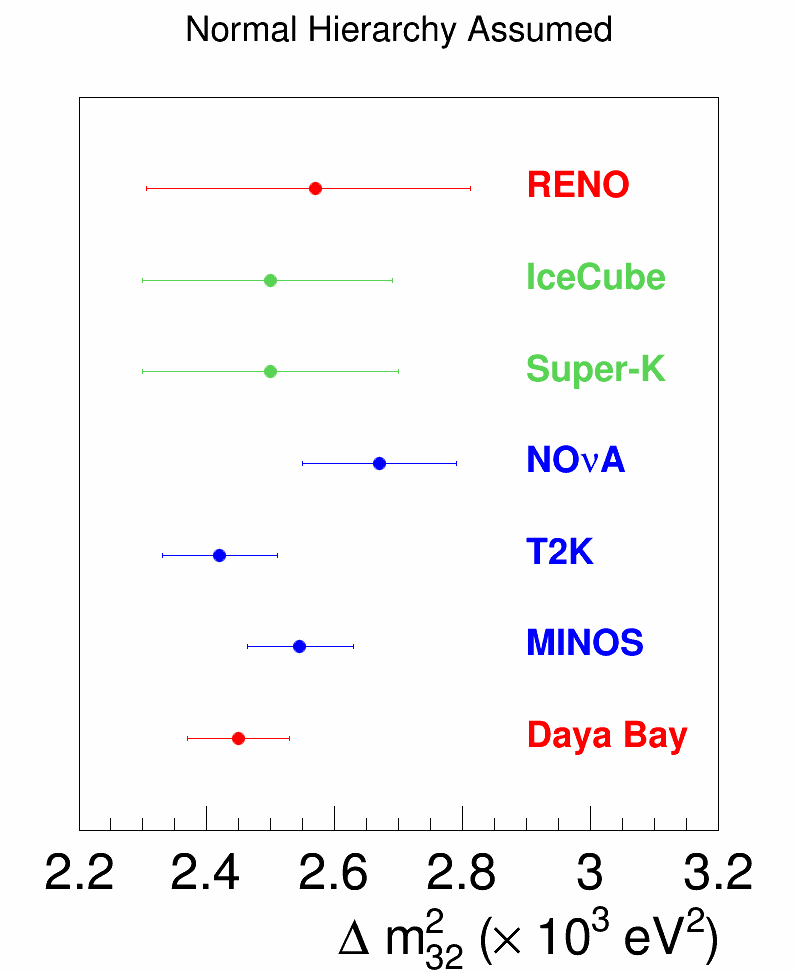
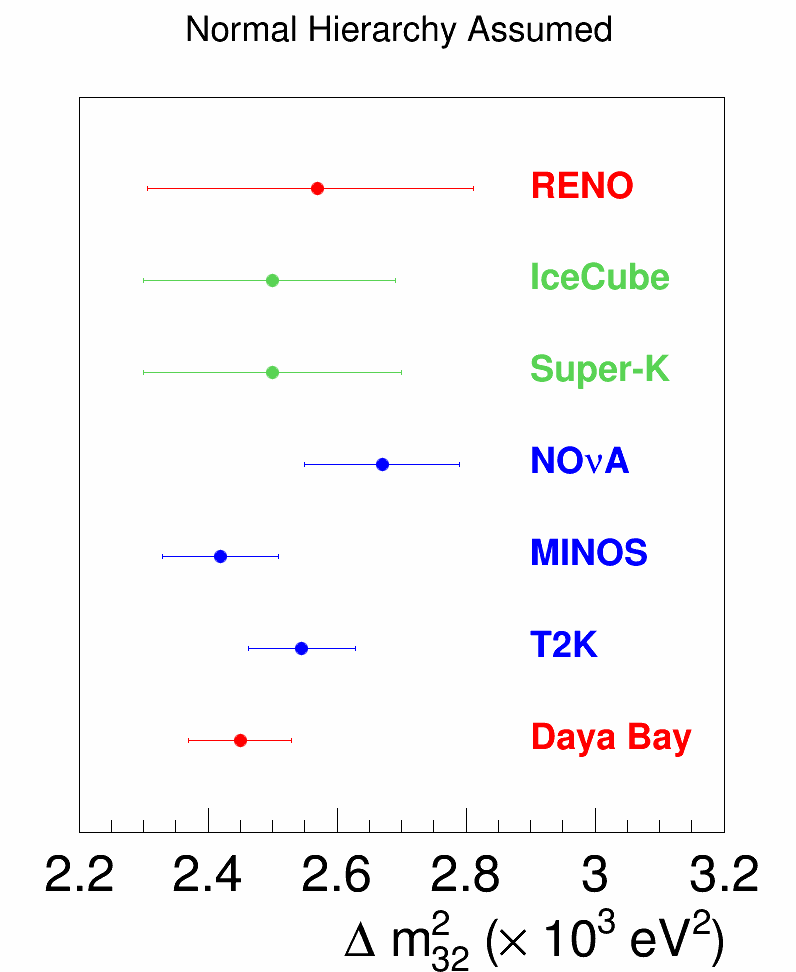
fix a typo

diff --git a/plot_dm2.C b/plot_dm2.C
@@ -43,9 +43,9 @@ void plot_dm2(){
   oscGraph1->Draw("Psame");
 
   latex.SetTextColor(4);
-  latex.DrawLatex(2.9,idx[2]-0.1,"T2K");
+  latex.DrawLatex(2.9,idx[2]-0.1,"MINOS");
   latex.SetTextColor(4);
-  latex.DrawLatex(2.9,idx[3]-0.1,"MINOS");
+  latex.DrawLatex(2.9,idx[3]-0.1,"T2K");
   latex.SetTextColor(4);
   latex.DrawLatex(2.9,idx[4]-0.1,"NO#nuA");
 
